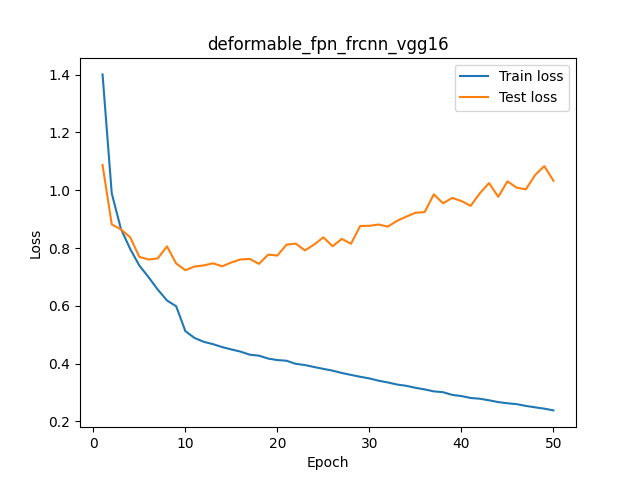
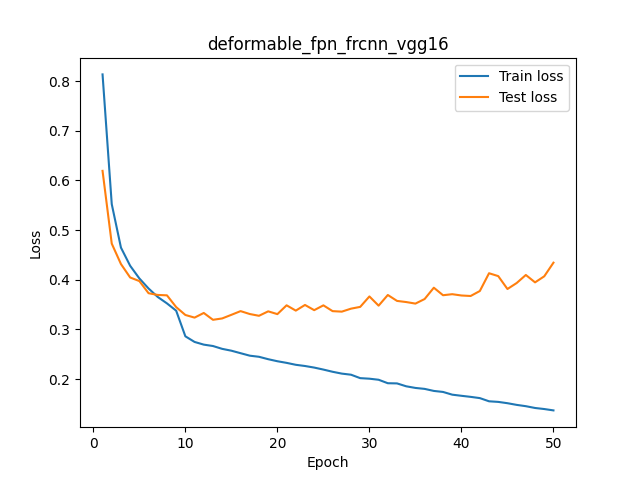
docs: update modification4 loss graphs

diff --git a/modification4/README.md b/modification4/README.md
@@ -1,6 +1,9 @@
 # Модификация 4
 
-## Baseline VGG16
+* Функция потерь (Loss): Clasification Loss (`F.cross_entropy`) + BBox Regression Loss (`smooth_l1_loss`)
+* Датасет: NEU-DET 
+
+## Baseline FRCNN VGG16
 
 График функции потерь за 50 эпох:
 
@@ -10,10 +13,14 @@
 
 ![Метрика mAP@0.5](frcnn_vgg16_maps.png)
 
-* Train Loss монотонно уменьшается
-* Test Loss сначала уменьшается но, после ~**30** эпох вновь начинает расти
-* После ~**10** эпох mAP@0.5 выходит на плато и не возрастает.
-* mAP достигает максимального значения на **28** эпохе (`62.60`). Это и есть состояние модели, при котором она полностью обучена.
+* Train Loss монотонно уменьшается.
+* Test Loss сначала уменьшается, после $10$ эпох выходит на плато и после $30$ эпох начинает постепенно расти.
+* После $10$ эпох **mAP@0.5** выходит на плато и практически не изменяется.
+
+1. Растущий Test Loss на $>30$ эпохе при падающем Train Loss означает переобучение.
+2. На $10-30$ эпохах **mAP@0.5** находится в промежутке $0.575-0.625$.
+3. **mAP@0.5** достигает максимального значения на $28$ эпохе ($62.60$).
+Это и есть состояние, при котором модель полностью обучена
 
 ## VGG16 + FPN
 
@@ -25,10 +32,14 @@
 
 ![Метрика mAP@0.5](fpn_frcnn_vgg16_maps.png)
 
-* Train Loss монотонно уменьшается
-* Test Loss сначала уменьшается но, после ~**10** эпох вновь начинает расти
-* После ~**10** эпох mAP@0.5 выходит на плато и не возрастает.
-* mAP достигает максимального значения на **14** эпохе (`75.28`). Это и есть состояние модели, при котором она полностью обучена.
+* Train Loss монотонно уменьшается.
+* Test Loss сначала уменьшается, после $10$ эпох выходит на плато и после $20$ эпох начинает постепенно расти.
+* После $10$ эпох **mAP@0.5** выходит на плато и практически не изменяется.
+
+1. Растущий Test Loss на $>20$ эпохе при падающем Train Loss означает переобучение.
+2. На $10-20$ эпохах **mAP@0.5** находится в промежутке $0.7-0.75$.
+3. **mAP@0.5** достигает максимального значения на $14$ эпохе ($0.7528$).
+Это и есть состояние, при котором модель полностью обучена
 
 ## VGG16 + DCN
 
@@ -40,9 +51,13 @@
 
 ![Метрика mAP@0.5](deformable_fpn_frcnn_vgg16_maps.png)
 
-* Train Loss монотонно уменьшается
-* Test Loss сначала уменьшается но, после ~**10** эпох вновь начинает расти
-* После ~**15** эпох mAP@0.5 выходит на плато и не возрастает.
-* mAP достигает максимального значения на **20** эпохе (`75.41`). Это и есть состояние модели, при котором она полностью обучена.
+* Train Loss монотонно уменьшается.
+* Test Loss сначала уменьшается, после $10$ эпох выходит на плато и после $20$ эпох начинает постепенно расти.
+* После $10$ эпох **mAP@0.5** выходит на плато и практически не изменяется.
+
+1. Растущий Test Loss на $>20$ эпохе при падающем Train Loss означает переобучение.
+2. На $10-20$ эпохах **mAP@0.5** находится в промежутке $0.7-0.75$.
+3. **mAP@0.5** достигает максимального значения на $14$ эпохе ($0.7541$).
+Это и есть состояние, при котором модель полностью обучена
 
 Ссылка на Colab с полным логом обучения: https://colab.research.google.com/drive/1a7wbUbS7Ylz5H3t6sR4_7lqh2K44bX_Y?usp=sharing
